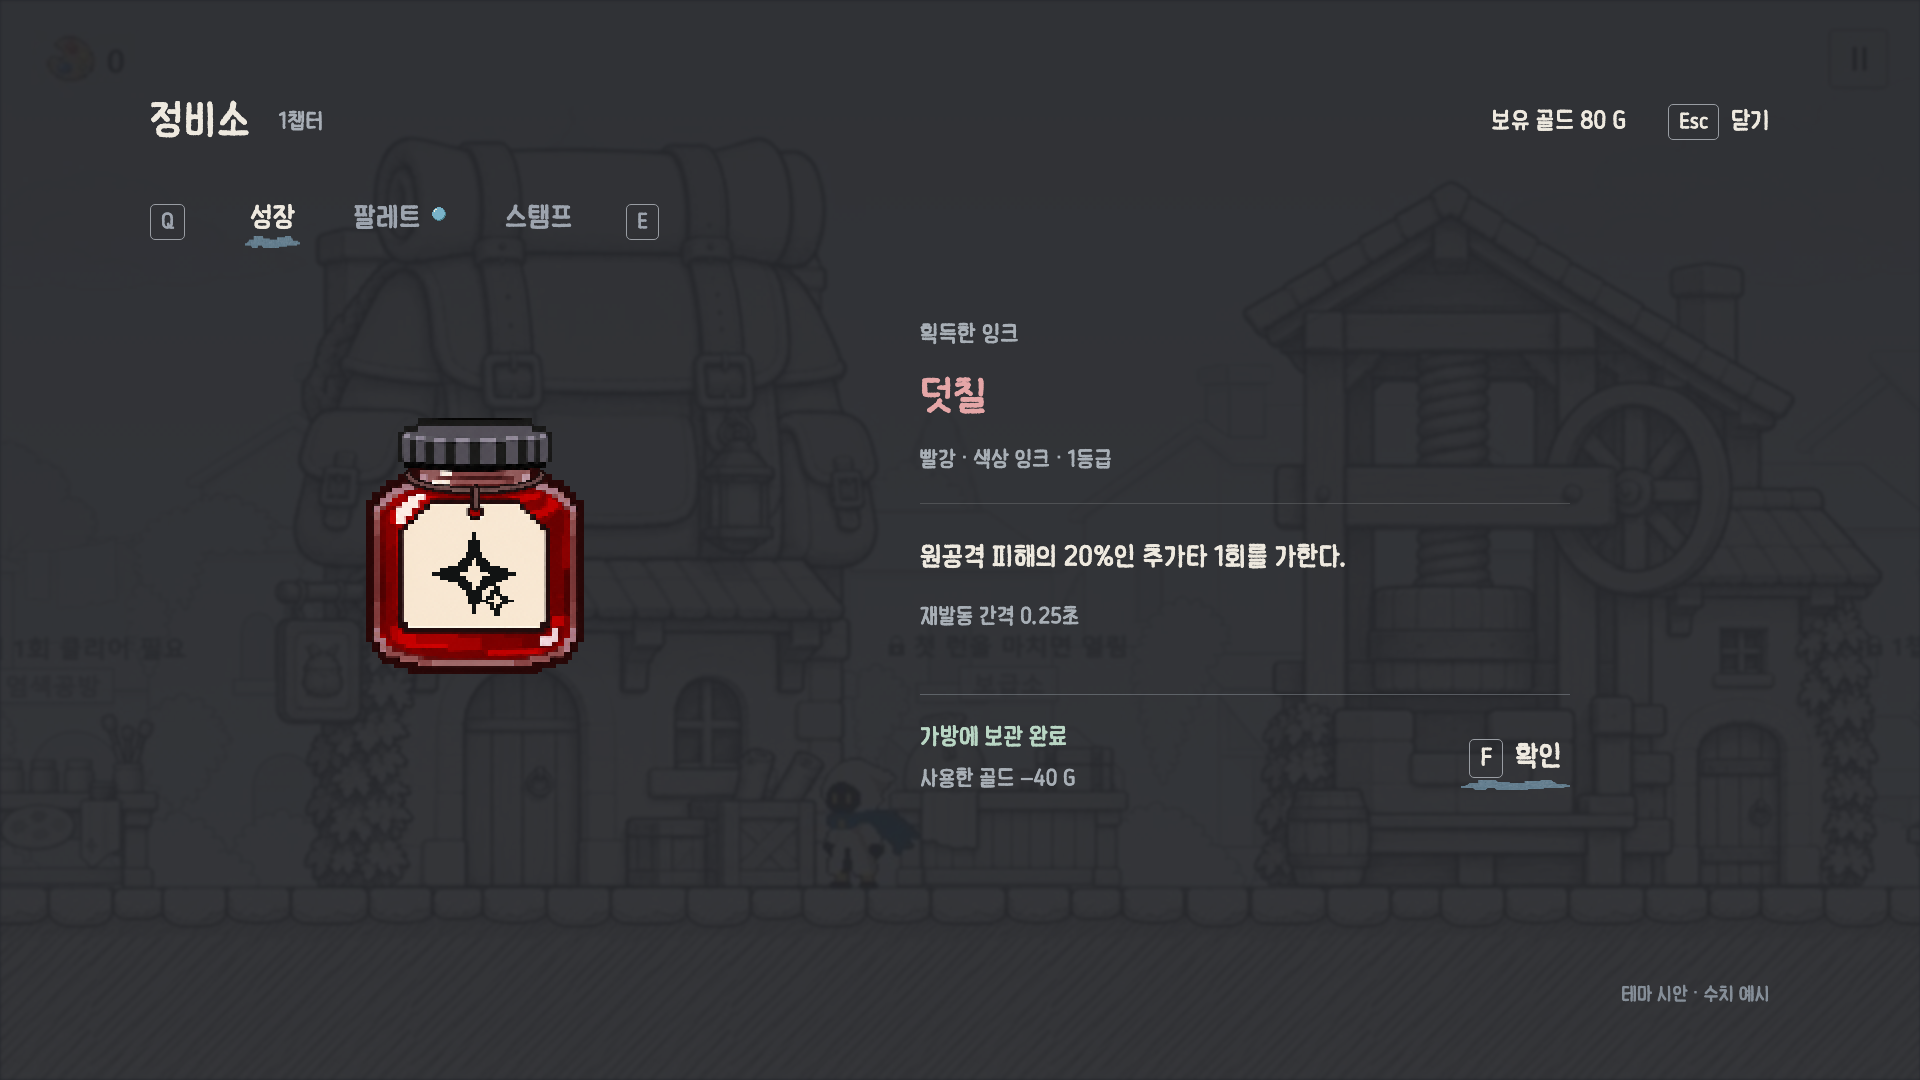
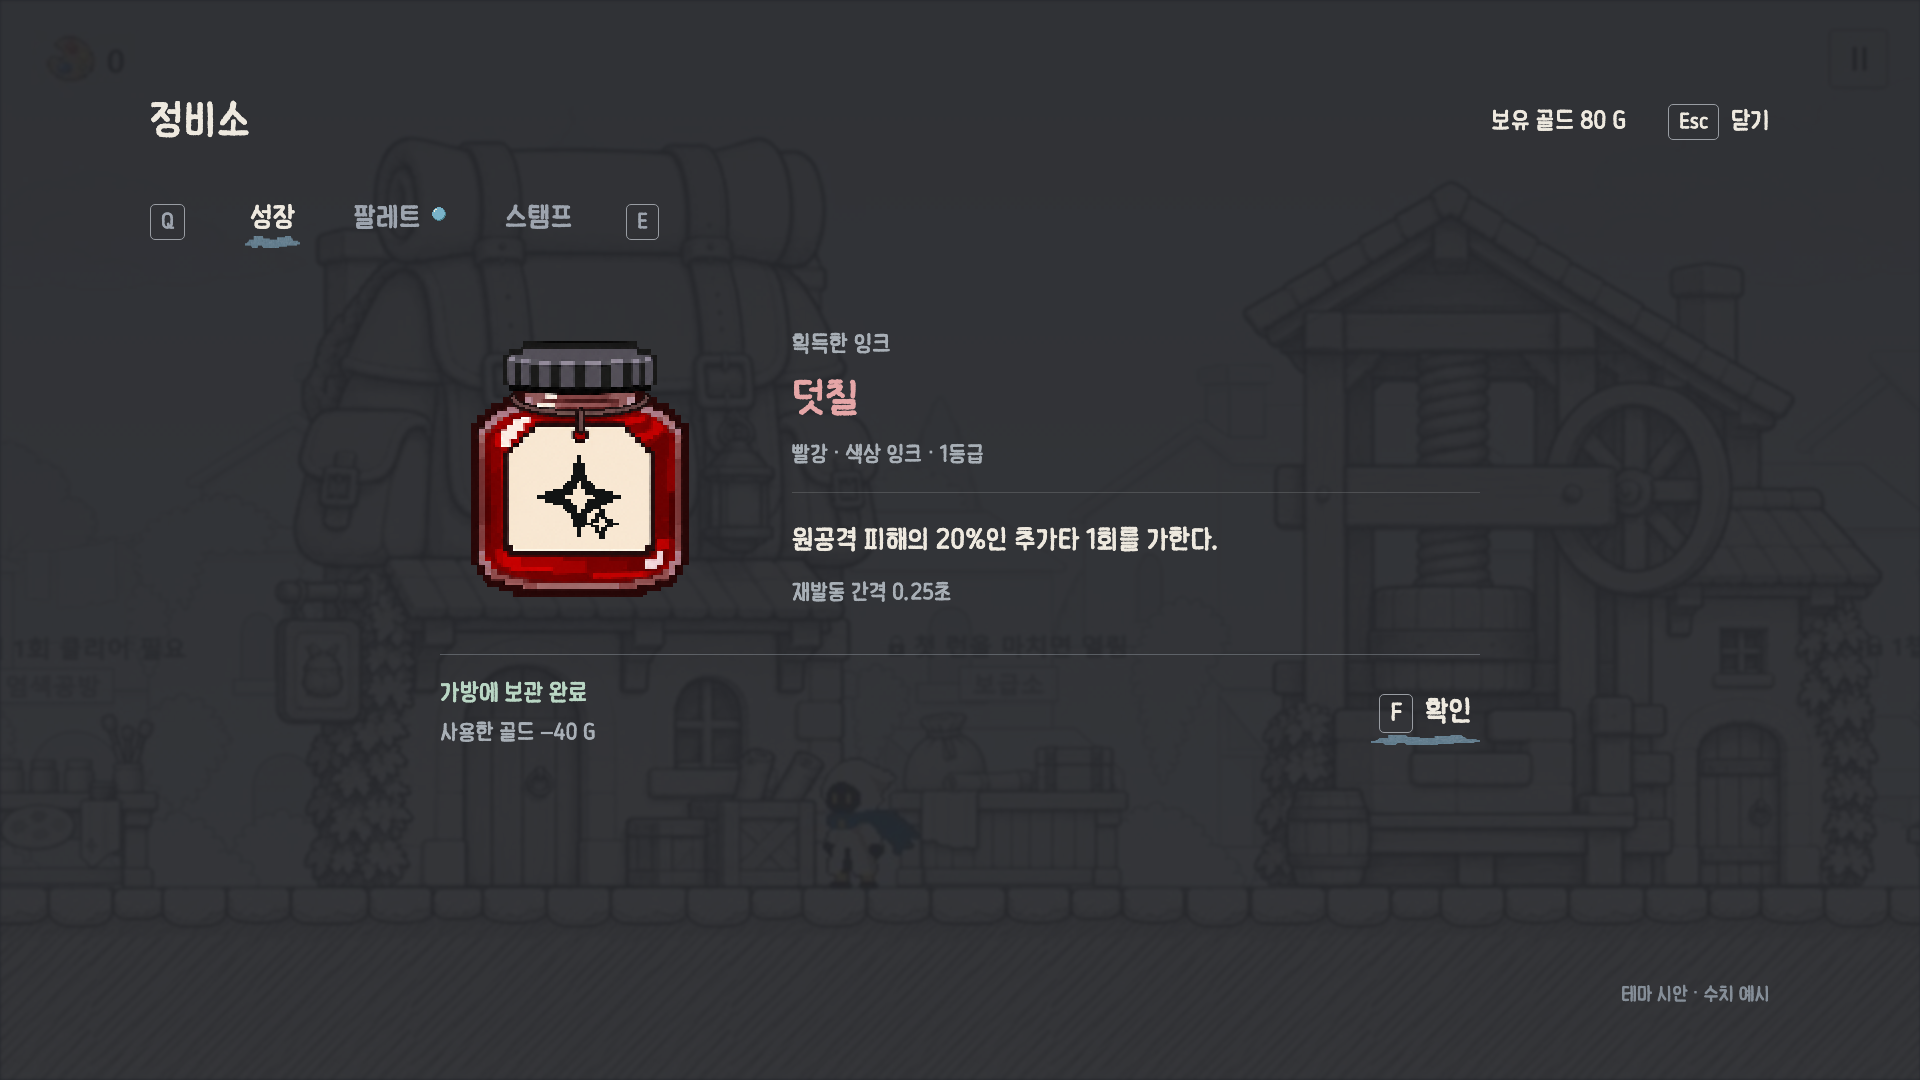
Center single reward content and remove chapter label

diff --git a/ui/work/theme/ink-pixel-v1/maintenance-set-v1/index.html b/ui/work/theme/ink-pixel-v1/maintenance-set-v1/index.html
@@ -1,9 +1,9 @@
 <!doctype html><html lang="ko"><meta charset="utf-8"><title>Deviant 정비소 테마</title><style>
 @font-face{font-family:Kkuk;src:url(../assembly-v1/fonts/MemomentKkukkukk.ttf)}*{box-sizing:border-box}body{margin:0;background:#25272c;color:#eee9df;font-family:Kkuk,sans-serif}button{font:inherit;color:inherit;cursor:pointer;border:0;background:none;text-align:left}button:focus-visible{outline:2px solid #9ac7d7;outline-offset:8px}.screen{width:1920px;height:1080px;position:relative;transform-origin:0 0;overflow:hidden}.world{position:absolute;inset:0;background:linear-gradient(#24262bf0,#24262bea),url(assets/village.jpg) center/cover;filter:blur(1px)}main{position:relative;margin:0 150px;padding-top:85px}header{height:72px;display:flex;align-items:center;gap:28px}h1{font-size:43px;font-weight:normal;margin:0}header .meta{font-size:23px;color:#a7adb5}header .right{margin-left:auto;display:flex;align-items:center;gap:42px;font-size:25px}kbd{font:inherit;font-size:22px;border:1px solid #999da3;border-radius:5px;padding:4px 10px;margin-right:12px}nav{display:flex;gap:48px;align-items:center;margin-top:44px;font-size:29px;color:#9da4ae}nav button{padding:0 5px 8px}nav .active{color:#eee9df}.swash{position:relative}.swash:after{content:'';position:absolute;height:12px;bottom:-5px;left:0;right:0;background:url(assets/selection-swash.png) center/100% 100% no-repeat}nav .new{color:#9ac7d7;font-size:19px;margin-left:12px}.layout{display:grid;grid-template-columns:710px 1fr;gap:122px;margin-top:55px}.choices{display:flex;flex-direction:column;gap:28px}.choice{width:100%;height:132px;display:flex;align-items:center;gap:28px;padding:10px 8px;border-bottom:1px solid #a3a6a82d}.choice .icon{width:96px;height:96px;object-fit:contain;image-rendering:pixelated}.choice h2{font-size:32px;font-weight:normal;margin:0 0 10px}.choice p{font-size:23px;color:#a8afb6;margin:0}.price{margin-left:auto;font-size:30px}.choice.selected h2{color:#a7ced8}.choice.selected{border-bottom:0}.slot-icon{width:96px;height:76px;position:relative;flex-shrink:0}.slot-icon img{position:absolute;width:96px;height:68px;image-rendering:pixelated}.label{color:#a8afb6;font-size:24px;margin:0 0 24px}.hero{display:flex;align-items:center;gap:32px;min-height:180px}.hero img{width:144px;height:166px;object-fit:contain;image-rendering:pixelated}.hero h2{font-size:40px;font-weight:normal;margin:0 0 20px}.hero p{font-size:24px;color:#a8afb6;margin:0}.rule{height:1px;background:#a3a6a842;margin:28px 0}.body{font-size:28px;line-height:1.65;margin:0}.muted{color:#a8afb6}.detailrow{display:flex;justify-content:space-between;font-size:25px;margin-top:22px}.next{font-size:23px;color:#a8afb6;margin-top:12px}.action{display:block;width:max-content;max-width:100%;margin-top:38px;padding:18px 0;font-size:30px;position:relative}.action:after{content:'';position:absolute;bottom:0;height:10px;left:0;right:0;background:url(assets/selection-swash.png) left/100% 100% no-repeat}.action kbd{font-size:25px}.foot{position:absolute;left:150px;right:150px;bottom:74px;display:flex;gap:30px;font-size:23px;color:#adb4bc}.foot .note{margin-left:auto;color:#858e98;font-size:20px}.result{display:grid;grid-template-columns:650px 1fr;gap:120px;margin-top:56px}.resultVisual{display:flex;align-items:center;justify-content:center;flex-direction:column;min-height:430px}.resultVisual>img{width:222px;height:256px;image-rendering:pixelated}.resultVisual .caption{font-size:24px;color:#9ac7d7;margin-top:30px}.result h2{font-weight:normal;font-size:43px;color:#e5a6a7;margin:0 0 12px}.receipt{margin-top:28px;display:flex;justify-content:space-between;font-size:26px}.status{font-size:27px;color:#b9d6c4;margin:28px 0 0}.small{font-size:23px}.disabled{opacity:.45}button:hover{color:#fff}
-.resultInfo{max-width:650px;padding-top:22px}.result .rule{margin:30px 0}.result .body{max-width:570px}.resultSummary{margin-top:36px;display:flex;align-items:center;gap:28px}.resultSummary .status{margin:0;font-size:25px}.spent{font-size:21px}.result .action{margin-top:34px;padding:14px 8px 16px}.resultVisual{min-height:490px}.resultOutcome{margin-top:64px;padding-top:28px;border-top:1px solid #a8afb660;display:flex;justify-content:space-between;align-items:center;gap:32px}.resultOutcome .resultSummary{margin:0;display:flex;flex-direction:column;align-items:flex-start;gap:12px}.resultOutcome .action{margin:0;flex-shrink:0}.resultOutcome .status{font-size:25px;color:#b9d6c4}.resultOutcome .spent{font-size:23px}.new-dot{display:inline-block;width:16px;height:16px;background:url(assets/new-item-dot.png) center/16px 16px no-repeat;image-rendering:pixelated;margin-left:10px;vertical-align:top;margin-top:5px}</style><div class="screen"><div class="world"></div><main><header><h1>정비소</h1><span class="meta">1챕터</span><div class="right"><span id="gold"></span><span><kbd>Esc</kbd>닫기</span></div></header><nav><kbd>Q</kbd><button class="active swash" onclick="location.search='?view=growth'">성장</button><button>팔레트<span id="badge"></span></button><button>스탬프</button><kbd>E</kbd></nav><div id="content"></div></main><div class="foot"><span id="keys"></span><span class="note">테마 시안 · 수치 예시</span></div></div>
+.resultInfo{max-width:650px;padding-top:22px}.result .rule{margin:30px 0}.result .body{max-width:570px}.resultSummary{margin-top:36px;display:flex;align-items:center;gap:28px}.resultSummary .status{margin:0;font-size:25px}.spent{font-size:21px}.result .action{margin-top:34px;padding:14px 8px 16px}.resultVisual{min-height:490px}.resultOutcome{margin-top:64px;padding-top:28px;border-top:1px solid #a8afb660;display:flex;justify-content:space-between;align-items:center;gap:32px}.resultOutcome .resultSummary{margin:0;display:flex;flex-direction:column;align-items:flex-start;gap:12px}.resultOutcome .action{margin:0;flex-shrink:0}.resultOutcome .status{font-size:25px;color:#b9d6c4}.resultOutcome .spent{font-size:23px}.result{width:1040px;margin:88px auto 0;grid-template-columns:280px 1fr;column-gap:72px;row-gap:48px;align-items:center}.resultVisual{min-height:0}.resultInfo{padding:0;max-width:none}.resultInfo .label{margin:0 0 16px}.resultInfo .small{margin:16px 0 0}.resultInfo .rule{margin:24px 0}.resultOutcome{grid-column:1/-1;margin:0;padding-top:24px}.resultOutcome .resultSummary{gap:10px}.new-dot{display:inline-block;width:16px;height:16px;background:url(assets/new-item-dot.png) center/16px 16px no-repeat;image-rendering:pixelated;margin-left:10px;vertical-align:top;margin-top:5px}</style><div class="screen"><div class="world"></div><main><header><h1>정비소</h1><div class="right"><span id="gold"></span><span><kbd>Esc</kbd>닫기</span></div></header><nav><kbd>Q</kbd><button class="active swash" onclick="location.search='?view=growth'">성장</button><button>팔레트<span id="badge"></span></button><button>스탬프</button><kbd>E</kbd></nav><div id="content"></div></main><div class="foot"><span id="keys"></span><span class="note">테마 시안 · 수치 예시</span></div></div>
 <script>
 let result=new URLSearchParams(location.search).get('view')==='result';let selected=new URLSearchParams(location.search).get('item')||'draw';
 const options={draw:{name:'잉크 뽑기',desc:'색상 잉크 1개 · 무작위',price:'40 G',next:'다음 뽑기 60 G',img:'ink3_red_01-jar.png',body:'무작위 색상 잉크를 하나 얻습니다.',extra:'가방 빈 칸 3',hint:'가방이 가득 차면 뽑을 수 없습니다.',action:'뽑기 · 40 G'},attack:{name:'공격 강화',desc:'두 무기 공격력 강화',price:'60 G',next:'다음 강화 90 G',img:'weapon-base_sword.png',body:'두 무기의 공격력을 강화합니다.',extra:'Lv 1 → Lv 2',hint:'공격력 +5% · 이번 런에 적용',action:'길게 눌러 강화 · 60 G'},slot:{name:'슬롯 강화',desc:'팔레트 칸을 골라 강화',price:'선택',next:'선택한 칸에 따라 비용이 표시됩니다.',img:'filled-red.png',body:'강화할 팔레트 칸을 선택합니다.',extra:'무기별 팔레트 관리',hint:'칸을 선택한 뒤 효과와 비용을 확인합니다.',action:'팔레트 관리로'}};
-function render(){gold.textContent='보유 골드 '+(result?'80 G':'120 G');badge.className='new';badge.textContent='';badge.className=result?'new-dot':'';badge.setAttribute('aria-label',result?'새로 획득한 잉크 있음':'');keys.innerHTML=result?'':'<kbd>↑ ↓</kbd>항목 선택';if(result){content.innerHTML=`<div class="result"><div class="resultVisual"><img src="assets/ink3_red_01-jar.png" alt="덧칠 잉크"></div><section class="resultInfo"><p class="label">획득한 잉크</p><h2>덧칠</h2><p class="muted small">빨강 · 색상 잉크 · 1등급</p><div class="rule"></div><p class="body">원공격 피해의 20%인 추가타 1회를 가한다.</p><p class="muted small">재발동 간격 0.25초</p><footer class="resultOutcome"><div class="resultSummary" role="status"><p class="status">가방에 보관 완료</p><span class="muted spent">사용한 골드 −40 G</span></div><button class="action" onclick="location.search='?view=growth'"><kbd>F</kbd>확인</button></footer></section></div>`;return;}let d=options[selected];content.innerHTML=`<div class="layout"><section class="choices">${Object.entries(options).map(([k,x])=>`<button class="choice ${k===selected?'selected swash':''}" onclick="selected='${k}';render()"><img class="icon" src="assets/${x.img}"><div><h2>${x.name}</h2><p>${x.desc}</p></div><span class="price">${x.price}</span></button>`).join('')}</section><section><p class="label">${d.name}</p><div class="hero"><img src="assets/${d.img}"><div><h2>${selected==='draw'?'색상 잉크 1개':selected==='attack'?'Lv 1 → Lv 2':'팔레트 칸 강화'}</h2><p>${selected==='draw'?'색상과 효과는 무작위':d.desc}</p></div></div><div class="rule"></div><p class="body">${d.body}</p><div class="detailrow"><span class="muted">${selected==='draw'?'보관 공간':'강화 대상'}</span><span>${d.extra}</span></div><p class="next">${d.hint}</p><button class="action" onclick="${selected==='draw'?"location.search='?view=result'":"void(0)"}"><kbd>F</kbd>${d.action}</button><p class="next">${d.next}</p></section></div>`}
+function render(){gold.textContent='보유 골드 '+(result?'80 G':'120 G');badge.className='new';badge.textContent='';badge.className=result?'new-dot':'';badge.setAttribute('aria-label',result?'새로 획득한 잉크 있음':'');keys.innerHTML=result?'':'<kbd>↑ ↓</kbd>항목 선택';if(result){content.innerHTML=`<div class="result"><div class="resultVisual"><img src="assets/ink3_red_01-jar.png" alt="덧칠 잉크"></div><section class="resultInfo"><p class="label">획득한 잉크</p><h2>덧칠</h2><p class="muted small">빨강 · 색상 잉크 · 1등급</p><div class="rule"></div><p class="body">원공격 피해의 20%인 추가타 1회를 가한다.</p><p class="muted small">재발동 간격 0.25초</p></section><footer class="resultOutcome"><div class="resultSummary" role="status"><p class="status">가방에 보관 완료</p><span class="muted spent">사용한 골드 −40 G</span></div><button class="action" onclick="location.search='?view=growth'"><kbd>F</kbd>확인</button></footer></div>`;return;}let d=options[selected];content.innerHTML=`<div class="layout"><section class="choices">${Object.entries(options).map(([k,x])=>`<button class="choice ${k===selected?'selected swash':''}" onclick="selected='${k}';render()"><img class="icon" src="assets/${x.img}"><div><h2>${x.name}</h2><p>${x.desc}</p></div><span class="price">${x.price}</span></button>`).join('')}</section><section><p class="label">${d.name}</p><div class="hero"><img src="assets/${d.img}"><div><h2>${selected==='draw'?'색상 잉크 1개':selected==='attack'?'Lv 1 → Lv 2':'팔레트 칸 강화'}</h2><p>${selected==='draw'?'색상과 효과는 무작위':d.desc}</p></div></div><div class="rule"></div><p class="body">${d.body}</p><div class="detailrow"><span class="muted">${selected==='draw'?'보관 공간':'강화 대상'}</span><span>${d.extra}</span></div><p class="next">${d.hint}</p><button class="action" onclick="${selected==='draw'?"location.search='?view=result'":"void(0)"}"><kbd>F</kbd>${d.action}</button><p class="next">${d.next}</p></section></div>`}
 function fit(){document.querySelector('.screen').style.transform=`scale(${Math.min(innerWidth/1920,innerHeight/1080)})`}document.addEventListener('keydown',e=>{if(e.repeat)return;if(e.key.toLowerCase()==='f' && (result||selected==='draw')){e.preventDefault();location.search=result?'?view=growth':'?view=result';}if(!result && ['ArrowUp','ArrowDown'].includes(e.key)){e.preventDefault();const a=['draw','attack','slot'];selected=a[(a.indexOf(selected)+(e.key==='ArrowDown'?1:2))%3];render();}});onresize=fit;fit();render();
 </script></html>
